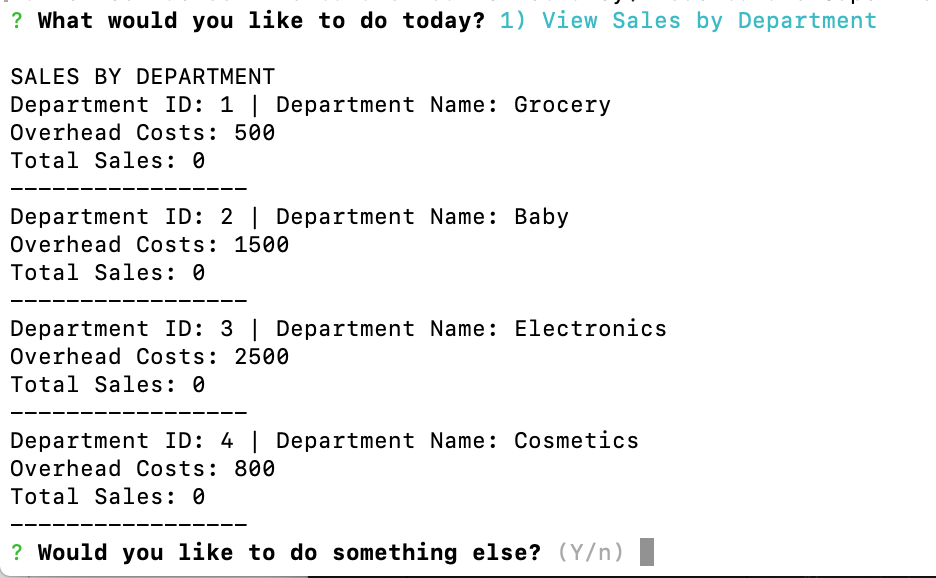
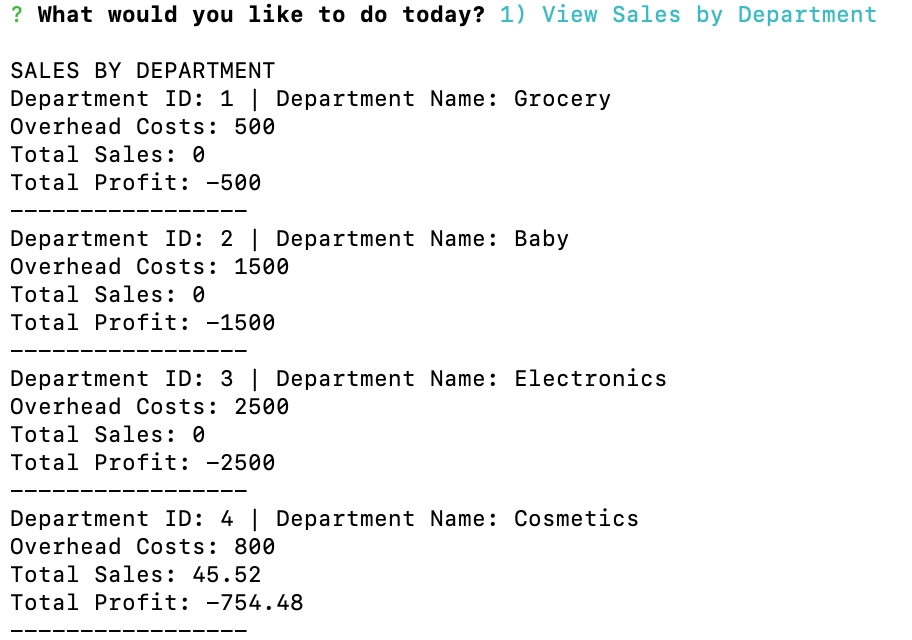
fixed total profit

Changed region(s): [[0.0, 0.0934, 1.0, 1.0], [0.0, 0.0, 0.9518, 0.0623]]

diff --git a/bamazonSupervisor.js b/bamazonSupervisor.js
@@ -37,7 +37,7 @@ function supervisorOptions(){
 					console.log('Department ID: ' + res[i].department_id + ' | ' + 'Department Name: ' + res[i].department_name);
 					console.log('Overhead Costs: ' + res[i].over_head_costs);
 					console.log('Total Sales: ' + res[i].total_sales);
-					// console.log('Total Profit: ' + profit);
+					console.log('Total Profit: ' + profit);
 					console.log('-----------------');
 				}
 			newOption();
